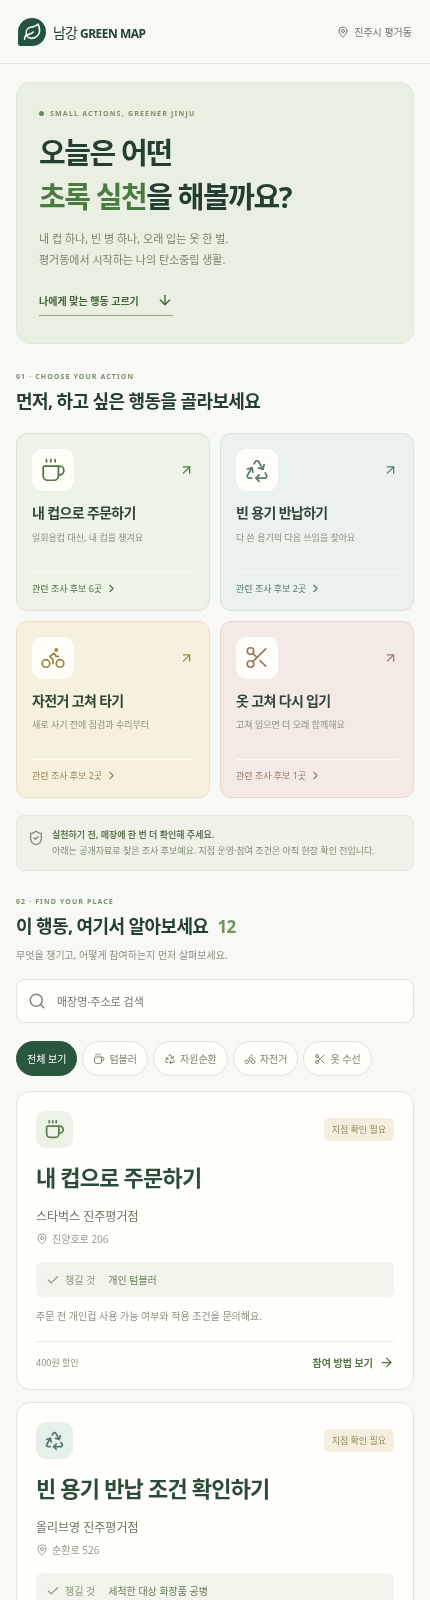
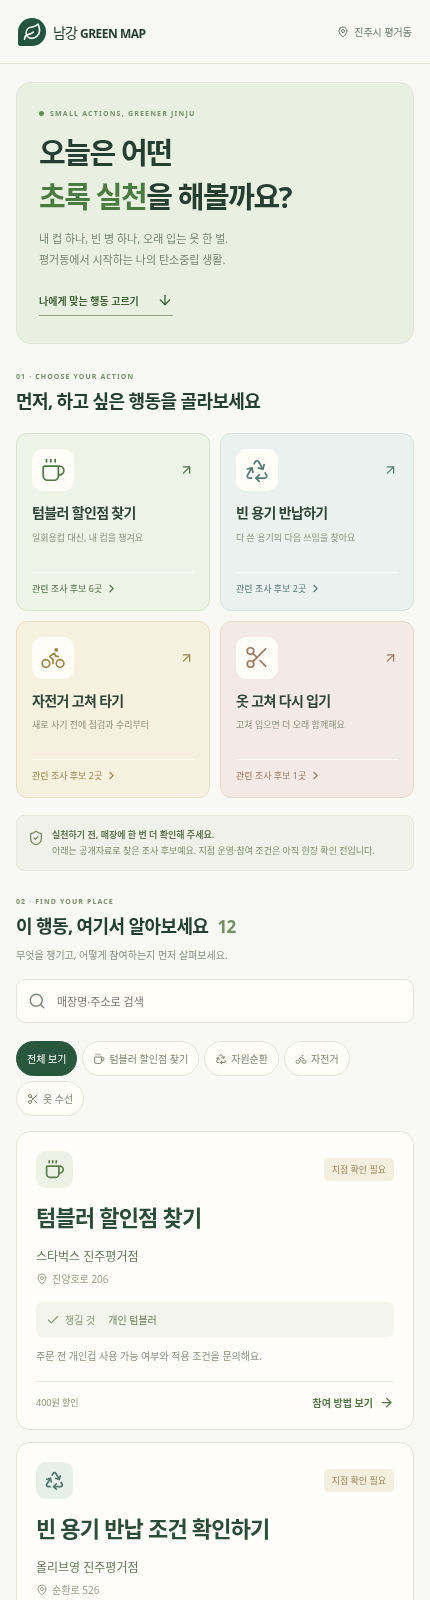
Rename tumbler action to discount store search

diff --git a/src/preview/ActionPreview.tsx b/src/preview/ActionPreview.tsx
@@ -7,7 +7,7 @@ import './actions.css';
 import './fresh.css';
 
 const actions=[
- {id:'cup',title:'내 컵으로 주문하기',short:'텀블러',description:'일회용컵 대신, 내 컵을 챙겨요',icon:Coffee,kind:'mint'},
+ {id:'cup',title:'텀블러 할인점 찾기',short:'텀블러 할인점 찾기',description:'일회용컵 대신, 내 컵을 챙겨요',icon:Coffee,kind:'mint'},
  {id:'recycle',title:'빈 용기 반납하기',short:'자원순환',description:'다 쓴 용기의 다음 쓰임을 찾아요',icon:Recycle,kind:'blue'},
  {id:'bike',title:'자전거 고쳐 타기',short:'자전거',description:'새로 사기 전에 점검과 수리부터',icon:Bike,kind:'yellow'},
  {id:'repair',title:'옷 고쳐 다시 입기',short:'옷 수선',description:'고쳐 입으면 더 오래 함께해요',icon:Scissors,kind:'rose'},
@@ -16,7 +16,7 @@ type ActionId='all'|typeof actions[number]['id'];
 function group(s:Store):ActionId {return cafeIds.includes(s.id)?'cup':s.tags.includes('mobility')?'bike':s.id==='alteration'?'repair':s.id==='oliveyoung'||s.id==='hansalim'?'recycle':'all';}
 function info(s:Store) {
  const id=group(s);const action=actions.find(a=>a.id===id);
- if(id==='cup')return {action,headline:s.tags.includes('plastic')?'개인컵 사용 조건 확인하기':'내 컵으로 주문하기',prepare:'개인 텀블러',step:'주문 전 개인컵 사용 가능 여부와 적용 조건을 문의해요.',benefit:benefitFor(s).title};
+ if(id==='cup')return {action,headline:s.tags.includes('plastic')?'개인컵 사용 조건 확인하기':'텀블러 할인점 찾기',prepare:'개인 텀블러',step:'주문 전 개인컵 사용 가능 여부와 적용 조건을 문의해요.',benefit:benefitFor(s).title};
  if(id==='recycle')return {action,headline:'빈 용기 반납 조건 확인하기',prepare:s.id==='oliveyoung'?'세척한 대상 화장품 공병':'반납 가능한 유리병 확인',step:'받는 용기 종류와 세척·라벨 제거 기준을 먼저 확인해요.',benefit:s.id==='hansalim'?'포인트 조건 확인 필요':'포인트 혜택 미확인'};
  if(id==='bike')return {action,headline:'자전거 고쳐 오래 타기',prepare:'점검할 자전거',step:'수리 가능한 항목과 비용을 먼저 문의해요.',benefit:'별도 포인트 혜택 미확인'};
  if(id==='repair')return {action,headline:'옷 고쳐 다시 입기',prepare:'수선할 옷',step:'수선 가능한 품목과 접수 방법을 문의해요.',benefit:'별도 포인트 혜택 미확인'};
